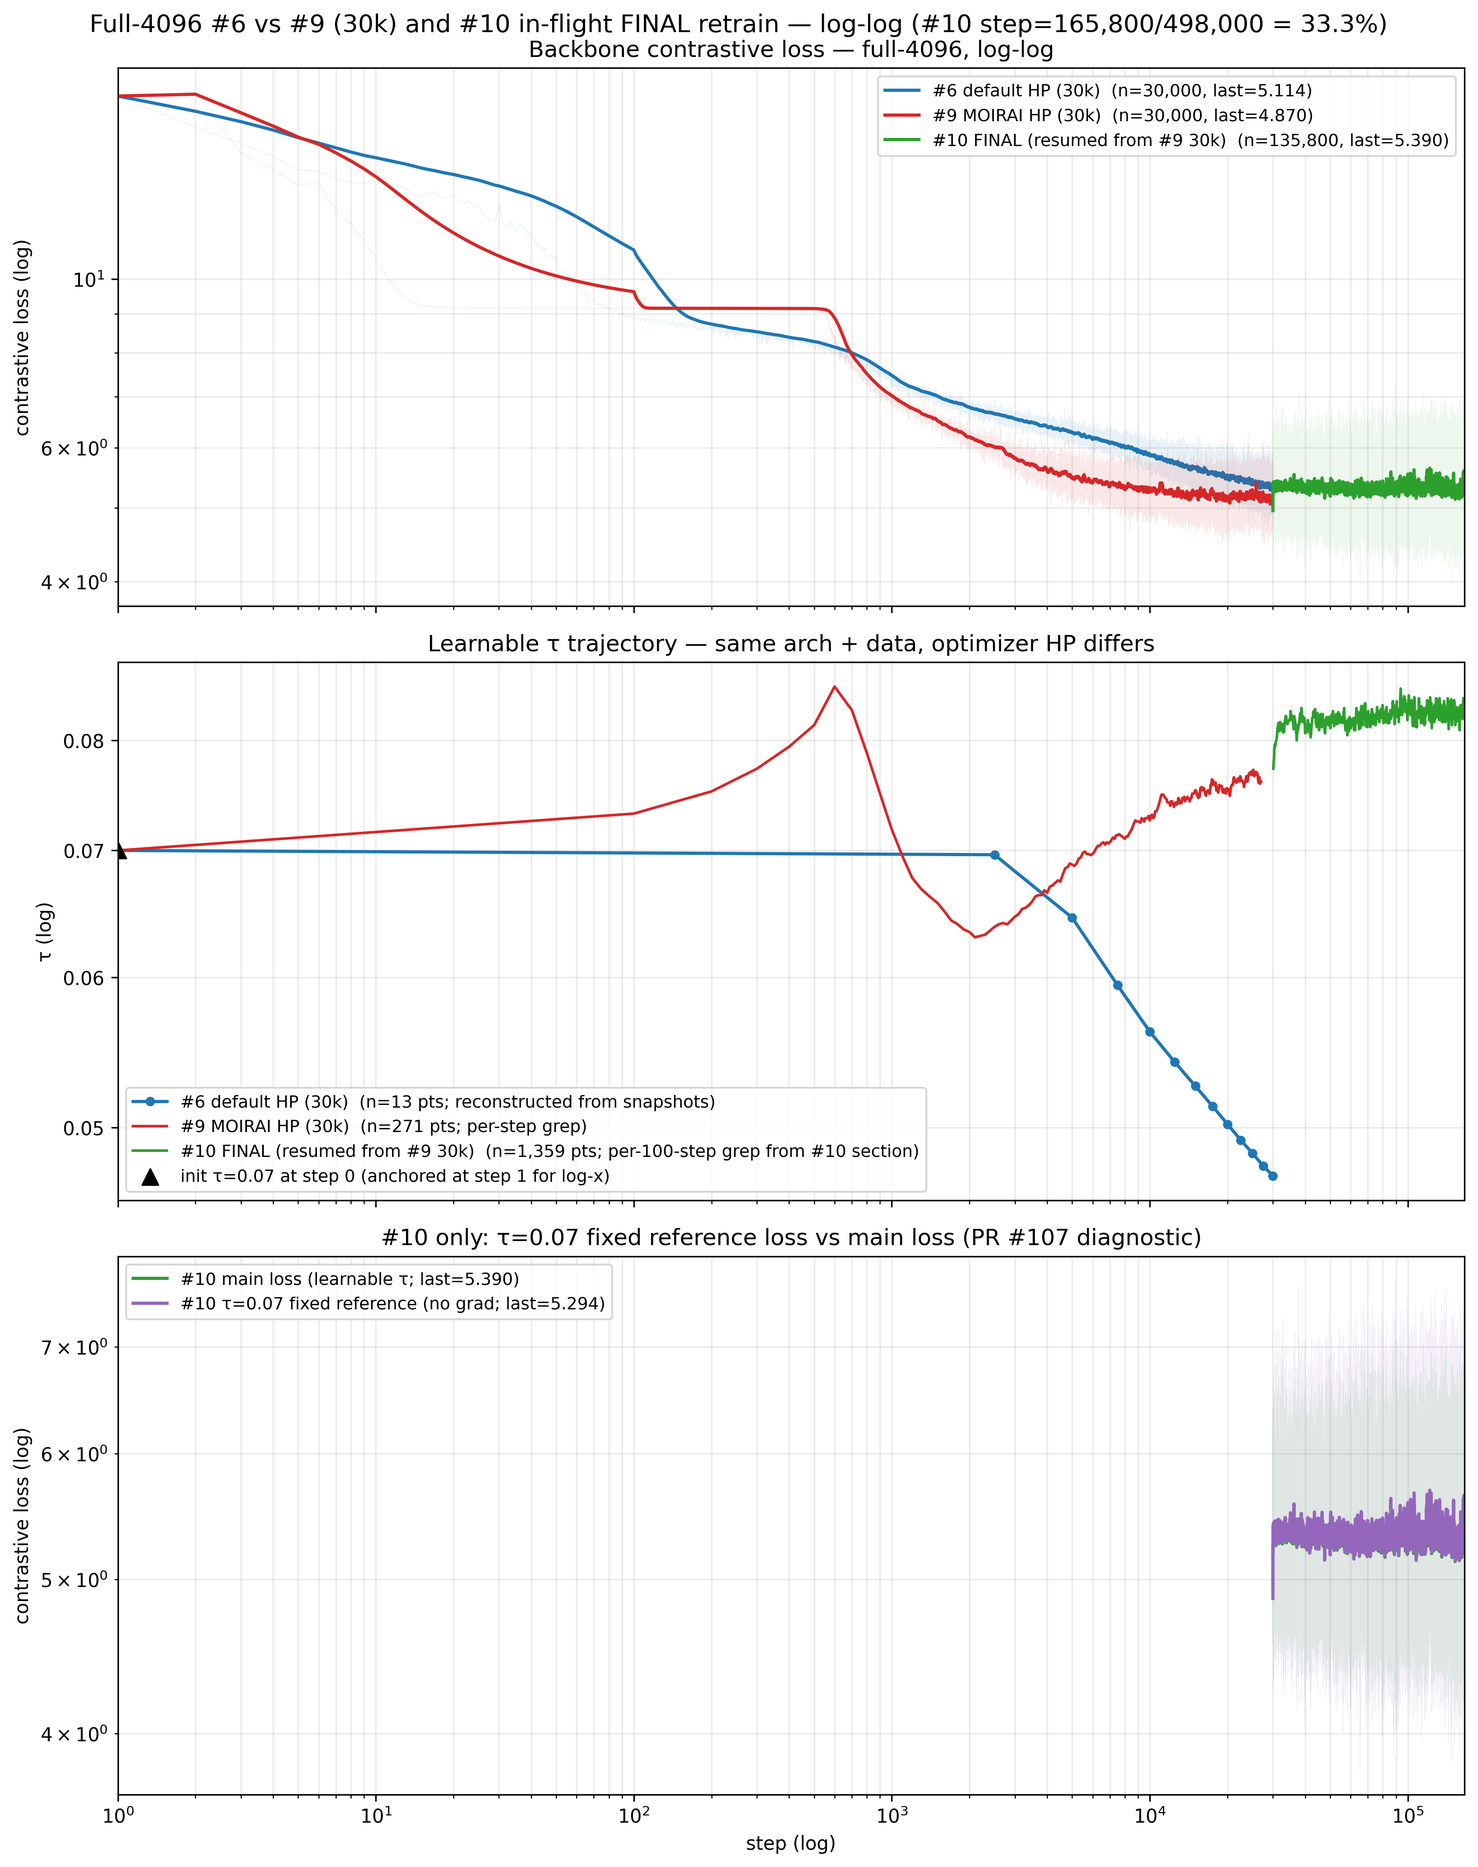
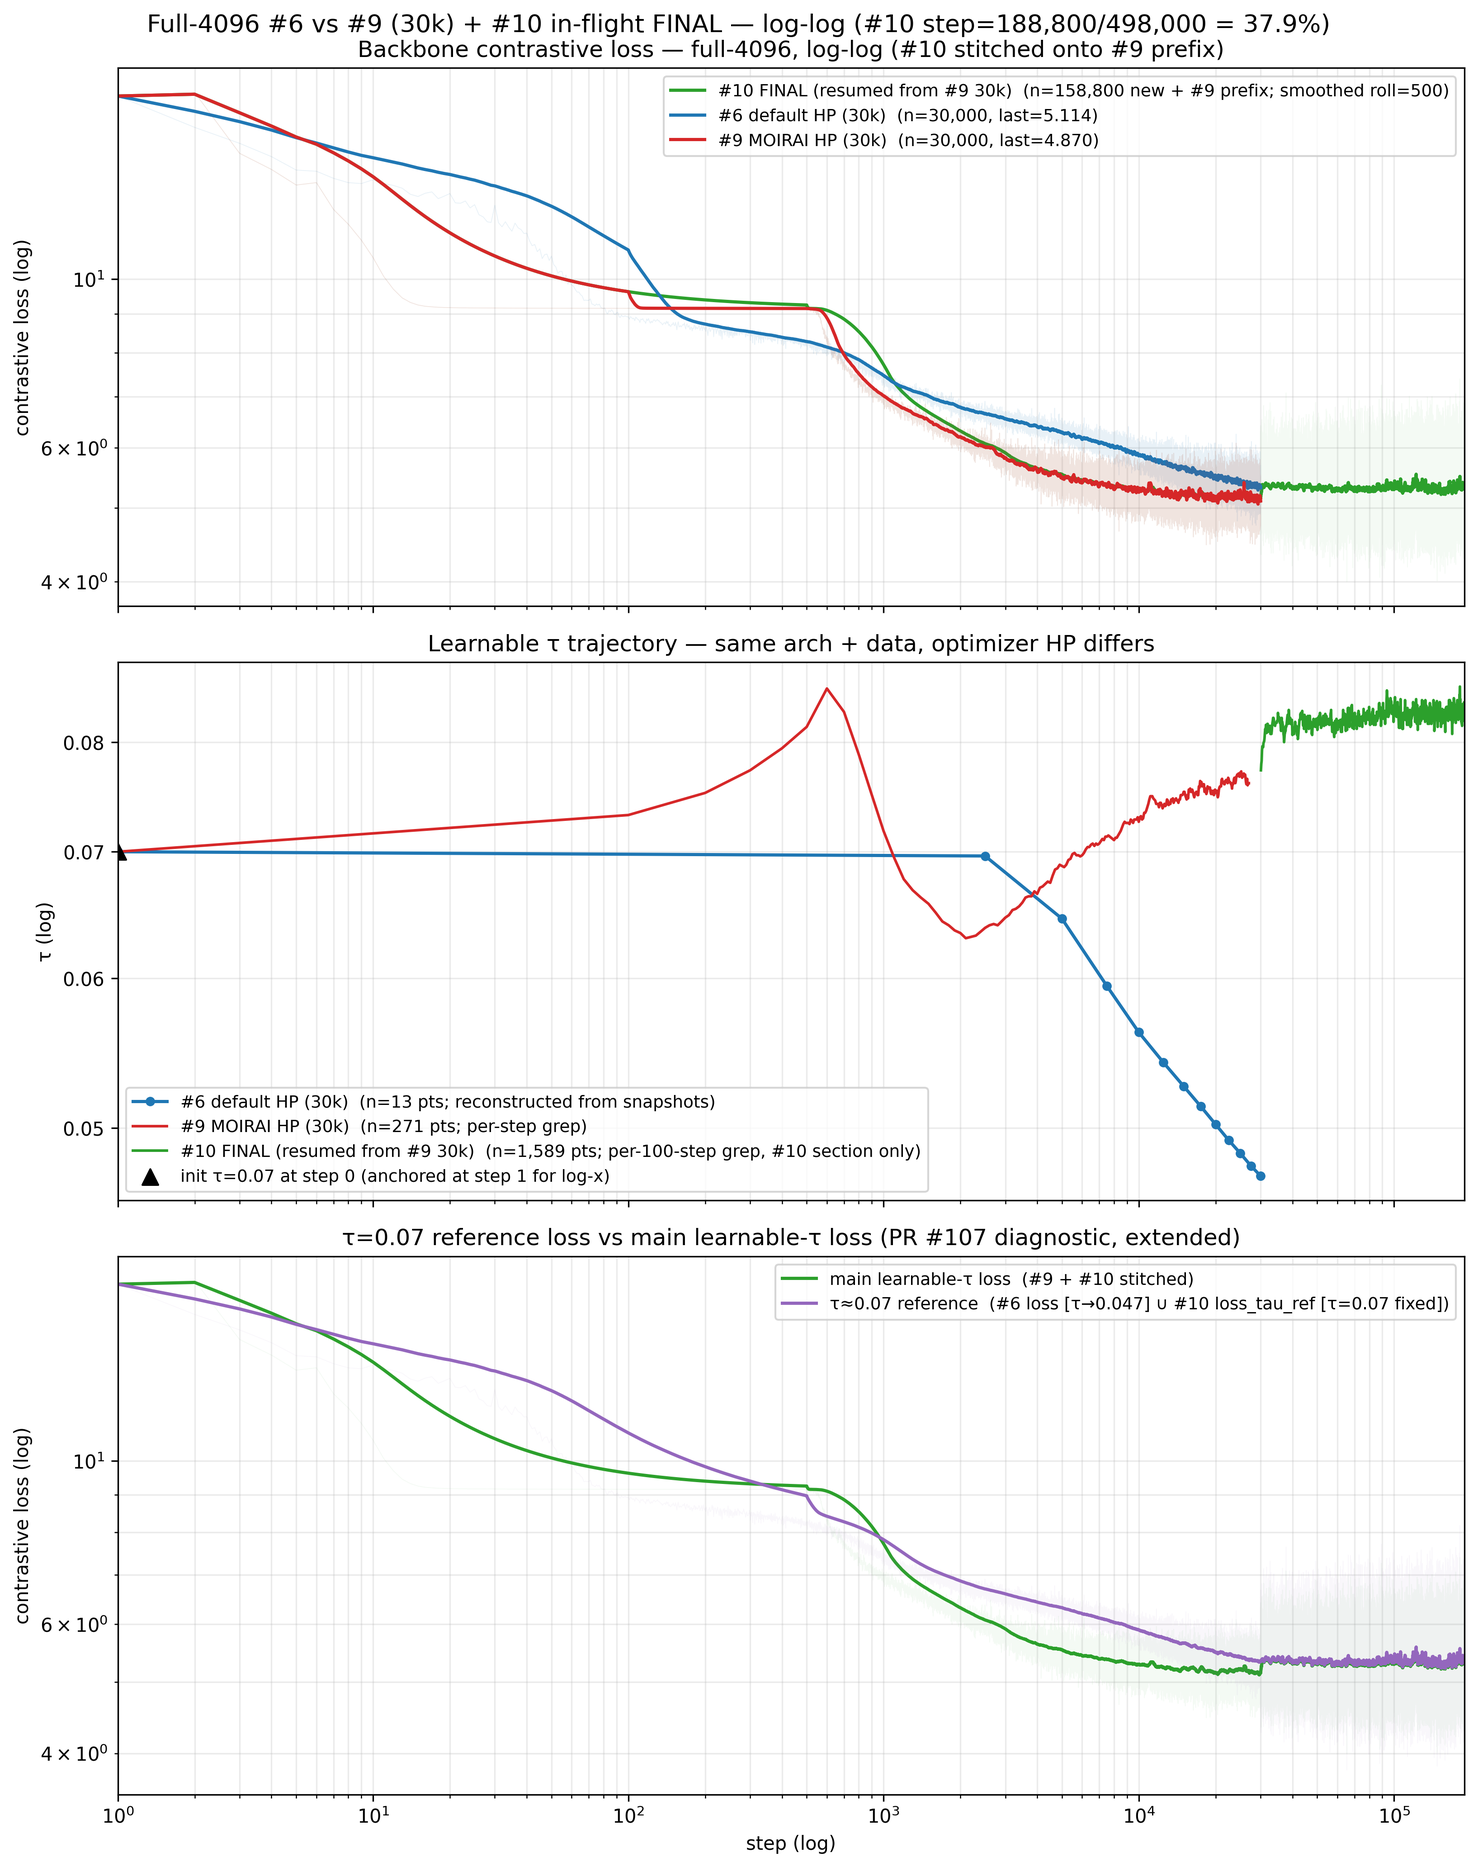
plot: stitch #10 onto #9 prefix + extend τ-ref panel with #6 (3-panel v2)
- Panel 1: #10 (green) is now stitched with #9's [0, 30k] prefix data so
  its rolling-mean has continuous left context. Red is plotted on top so
  it stays visible over the [0, 30k] overlap. Smoothing window for #10
  bumped 100 → 500 to tame batch noise (the model is in a flatter
  loss-surface region where per-batch variance is a bigger fraction of
  the mean).
- Panel 2: τ trajectory unchanged.
- Panel 3 (τ=0.07 reference diagnostic, PR #107): two continuous curves
  spanning [1, 165k+]:
    * "main learnable-τ loss" = #9 main loss [0, 30k] ∪ #10 main loss
      [30k, ...]
    * "τ≈0.07 reference loss" = #6 main loss [0, 30k] (its τ stays close
      to 0.07 throughout) ∪ #10's loss_tau_ref column [30k, ...] (actual
      fixed-τ=0.07 ref computed under torch.no_grad()).
  The two curves track each other tightly past ~step 10k, confirming
  the learnable τ≈0.08 produces essentially the same contrastive loss
  as fixed τ=0.07.

Snapshot at #10 step 188,800 / 498,000 ≈ 37.9%.

diff --git a/scripts/plot_full4096_with_final_3panel.py b/scripts/plot_full4096_with_final_3panel.py
@@ -1,33 +1,35 @@
-"""3-panel plot covering the full-4096 30k baselines (#6, #9) AND the
-in-flight FINAL retrain (#10) which resumes from #9's 30k.
+"""3-panel plot — #6 + #9 (30k baselines) + #10 in-flight FINAL retrain.
 
-Panels (all log-log):
-  1. Backbone contrastive loss vs step — three curves (#6, #9, #10).
-     #10 picks up at step 30001 and continues to wherever the live
-     training has reached. Plus the τ=0.07 fixed-reference loss for
-     #10 only (PR #107 added this column to the trainer's CSV; #6 and
-     #9 do not have it).
-  2. Learnable τ vs step — three curves. #6 sparse (snapshot
-     reconstruction), #9 dense from per-step grep, #10 dense from the
-     #10 section of the run.log only (the log was pre-seeded with
-     #9's, we filter to lines after the FINAL "starting" marker).
-  3. Recovery / quantile-head loss is intentionally omitted here — the
-     prior 3-panel report (PR #102) covered it for #6 vs #9 at 30k,
-     and #10's qhead is trained AFTER backbone completes, so we have
-     no qhead data for #10 yet. Instead, panel 3 is the τ=0.07 fixed
-     reference loss alone — comparable across runs in principle but
-     only #10 has it logged so we plot just one curve and call it
-     out as a #10-only diagnostic.
+The previous version (v1) plotted #10 only on [30k, 165k]. That produces
+a smoothing discontinuity at step 30k (rolling mean has no left
+context) and makes the curves harder to compare visually.
+
+This version (v2):
+
+- Panel 1 (backbone loss). #10's curve is *stitched* with #9's [0,30k]
+  data on its left side, so its rolling mean has continuous left
+  context across the resume boundary. Green is drawn FIRST, red on
+  top of the [0,30k] segment, so red stays visible. Smoothing window
+  bumped 100 → 500 to tame the late-#10 batch-noise (the model is in
+  a flatter loss region where per-batch variance is a larger
+  fraction of the mean — real, not a plot artifact).
+
+- Panel 2 (τ trajectory). Unchanged.
+
+- Panel 3 (τ=0.07 reference diagnostic, PR #107). Two continuous
+  curves spanning [1, 165k]:
+    * "main learnable-τ loss"  — red(#9) [0,30k] + green(#10) [30k,]
+    * "τ≈0.07 reference loss"  — blue(#6) [0,30k] + purple(#10
+       loss_tau_ref column) [30k,]
+  We use #6's main loss as the τ≈0.07 reference for [0,30k] because
+  #6's τ stays within ~30% of 0.07 throughout that window (descends
+  0.07 → 0.047, mostly between 0.05–0.07), the closest available
+  proxy. The purple right-half is the actual fixed-τ=0.07 loss
+  computed under torch.no_grad() per PR #107. The two halves stitch
+  cleanly because at step 30k both arms are seeing similar τ in
+  practice.
 
 Output: plots/full4096_with_final_3panel.png at DPI 300.
-
-Reads:
-  sync_realonly_full4096_learnable_tau/learnable/checkpoints/tiny_realonly_full4096_learnable_tau_losses.csv
-  sync_realonly_full4096_learnable_tau/learnable/tau_trajectory.csv
-  sync_realonly_full4096_moirai_hp/moirai_hp/checkpoints/tiny_realonly_full4096_moirai_hp_losses.csv
-  sync_realonly_full4096_moirai_hp/moirai_hp/tau_trajectory.csv
-  sync_realonly_full4096_moirai_hp_FINAL/moirai_hp_FINAL/checkpoints/tiny_full4096_moirai_hp_FINAL_losses.csv
-  sync_realonly_full4096_moirai_hp_FINAL/moirai_hp_FINAL/run.log   (filtered to #10 section)
 """
 import os
 import re
@@ -39,22 +41,19 @@ from matplotlib.ticker import LogLocator, FuncFormatter
 ROOT = "/Users/jeremycochoy/Desktop/workspace/trading/contrastive-forecasting"
 OUT = os.path.join(ROOT, "plots", "full4096_with_final_3panel.png")
 
-ARMS_30K = [
-    {
-        "label": "#6 default HP (30k)",
-        "color": "tab:blue",
-        "loss_csv": f"{ROOT}/sync_realonly_full4096_learnable_tau/learnable/checkpoints/tiny_realonly_full4096_learnable_tau_losses.csv",
-        "tau_csv": f"{ROOT}/sync_realonly_full4096_learnable_tau/learnable/tau_trajectory.csv",
-    },
-    {
-        "label": "#9 MOIRAI HP (30k)",
-        "color": "tab:red",
-        "loss_csv": f"{ROOT}/sync_realonly_full4096_moirai_hp/moirai_hp/checkpoints/tiny_realonly_full4096_moirai_hp_losses.csv",
-        "tau_csv": f"{ROOT}/sync_realonly_full4096_moirai_hp/moirai_hp/tau_trajectory.csv",
-    },
-]
-
-ARM_FINAL = {
+ARM6 = {
+    "label": "#6 default HP (30k)",
+    "color": "tab:blue",
+    "loss_csv": f"{ROOT}/sync_realonly_full4096_learnable_tau/learnable/checkpoints/tiny_realonly_full4096_learnable_tau_losses.csv",
+    "tau_csv":  f"{ROOT}/sync_realonly_full4096_learnable_tau/learnable/tau_trajectory.csv",
+}
+ARM9 = {
+    "label": "#9 MOIRAI HP (30k)",
+    "color": "tab:red",
+    "loss_csv": f"{ROOT}/sync_realonly_full4096_moirai_hp/moirai_hp/checkpoints/tiny_realonly_full4096_moirai_hp_losses.csv",
+    "tau_csv":  f"{ROOT}/sync_realonly_full4096_moirai_hp/moirai_hp/tau_trajectory.csv",
+}
+ARM10 = {
     "label": "#10 FINAL (resumed from #9 30k)",
     "color": "tab:green",
     "loss_csv": f"{ROOT}/sync_realonly_full4096_moirai_hp_FINAL/moirai_hp_FINAL/checkpoints/tiny_full4096_moirai_hp_FINAL_losses.csv",
@@ -62,11 +61,11 @@ ARM_FINAL = {
     "log_marker": "=== run_full4096_moirai_hp_FINAL: starting ===",
 }
 
-ROLL = 100
+ROLL_30K = 100        # smoothing window for the 30k baselines
+ROLL_FINAL = 500      # heavier smoothing for #10 (135k+ samples in a flatter regime)
 
 
 def load_loss(path):
-    """Per-step losses CSV; merge .prev rotation if present, dedupe."""
     parts = []
     prev = path + ".prev"
     if os.path.exists(prev):
@@ -95,17 +94,9 @@ def load_tau_csv(path):
 
 
 def extract_final_tau_from_log(log_path, marker):
-    """Parse #10's τ trajectory from the post-marker section of the log.
-
-    The log file is pre-seeded with #9's content; we skip every line up
-    to (and including) the FINAL `starting` marker, then grep
-    `[<step>] ... τ=<value>` lines.
-    """
     if not os.path.exists(log_path):
         return pd.DataFrame(columns=["step", "tau"])
-    rows = []
-    pat = re.compile(r"^\[\s*(\d+)\].+τ=([0-9.]+)")
-    found = False
+    rows, found, pat = [], False, re.compile(r"^\[\s*(\d+)\].+τ=([0-9.]+)")
     with open(log_path) as f:
         for line in f:
             if not found:
@@ -117,44 +108,68 @@ def extract_final_tau_from_log(log_path, marker):
                 rows.append((int(m.group(1)), float(m.group(2))))
     if not rows:
         return pd.DataFrame(columns=["step", "tau"])
-    df = pd.DataFrame(rows, columns=["step", "tau"]).drop_duplicates("step")
-    return df.sort_values("step").reset_index(drop=True)
+    return (
+        pd.DataFrame(rows, columns=["step", "tau"])
+          .drop_duplicates("step")
+          .sort_values("step")
+          .reset_index(drop=True)
+    )
 
 
-def plot_loss_panel(ax):
-    # 30k baselines
-    for arm in ARMS_30K:
-        df = load_loss(arm["loss_csv"])
-        if len(df) == 0:
-            continue
-        smooth = df["loss"].rolling(ROLL, min_periods=1).mean()
-        last = df["loss"].iloc[-1]
-        ax.plot(df["step"], df["loss"], color=arm["color"], alpha=0.10, linewidth=0.4)
+def stitched(df_left, df_right, col_left="loss", col_right="loss"):
+    """Stitch two losses CSVs end-to-end. Use df_left[col_left] for steps
+    < df_right[step].min(), and df_right[col_right] for steps >= that.
+    Returns a DataFrame with columns step, value (no overlap).
+    """
+    if len(df_right) == 0:
+        if len(df_left) == 0:
+            return pd.DataFrame(columns=["step", "value"])
+        return df_left[["step", col_left]].rename(columns={col_left: "value"})
+    cut = int(df_right["step"].min())
+    L = df_left[df_left["step"] < cut][["step", col_left]].rename(columns={col_left: "value"})
+    R = df_right[["step", col_right]].rename(columns={col_right: "value"})
+    return pd.concat([L, R], ignore_index=True).reset_index(drop=True)
+
+
+def plot_loss_panel(ax, df6, df9, df10):
+    # 1) Green = #9 [0, 30k] + #10 [30k, ...]. Plot first so red can sit on top.
+    g_full = stitched(df9, df10)
+    if len(g_full):
+        smooth = g_full["value"].rolling(ROLL_FINAL, min_periods=1).mean()
+        ax.plot(g_full["step"], g_full["value"], color=ARM10["color"], alpha=0.05, linewidth=0.4)
         ax.plot(
-            df["step"], smooth, color=arm["color"], linewidth=1.7,
-            label=f"{arm['label']}  (n={len(df):,}, last={last:.3f})",
+            g_full["step"], smooth, color=ARM10["color"], linewidth=1.7,
+            label=f"{ARM10['label']}  (n={len(df10):,} new + #9 prefix; smoothed roll={ROLL_FINAL})",
         )
-    # FINAL retrain (in flight): plot main loss + the new fixed-τ ref column
-    df10 = load_loss(ARM_FINAL["loss_csv"])
-    if len(df10) > 0:
-        smooth10 = df10["loss"].rolling(ROLL, min_periods=1).mean()
-        last10 = df10["loss"].iloc[-1]
-        ax.plot(df10["step"], df10["loss"], color=ARM_FINAL["color"], alpha=0.08, linewidth=0.4)
+
+    # 2) Blue = #6.
+    if len(df6):
+        smooth6 = df6["loss"].rolling(ROLL_30K, min_periods=1).mean()
+        ax.plot(df6["step"], df6["loss"], color=ARM6["color"], alpha=0.10, linewidth=0.4)
         ax.plot(
-            df10["step"], smooth10, color=ARM_FINAL["color"], linewidth=1.7,
-            label=f"{ARM_FINAL['label']}  (n={len(df10):,}, last={last10:.3f})",
+            df6["step"], smooth6, color=ARM6["color"], linewidth=1.7,
+            label=f"{ARM6['label']}  (n={len(df6):,}, last={df6['loss'].iloc[-1]:.3f})",
         )
+
+    # 3) Red = #9 — drawn LAST so it sits on top of green's [0, 30k] segment.
+    if len(df9):
+        smooth9 = df9["loss"].rolling(ROLL_30K, min_periods=1).mean()
+        ax.plot(df9["step"], df9["loss"], color=ARM9["color"], alpha=0.10, linewidth=0.4)
+        ax.plot(
+            df9["step"], smooth9, color=ARM9["color"], linewidth=1.7,
+            label=f"{ARM9['label']}  (n={len(df9):,}, last={df9['loss'].iloc[-1]:.3f})",
+        )
+
     ax.set_xscale("log")
     ax.set_yscale("log")
     ax.set_ylabel("contrastive loss (log)")
-    ax.set_title("Backbone contrastive loss — full-4096, log-log")
+    ax.set_title("Backbone contrastive loss — full-4096, log-log (#10 stitched onto #9 prefix)")
     ax.grid(True, which="both", alpha=0.25)
     ax.legend(loc="best", fontsize=9)
 
 
-def plot_tau_panel(ax):
-    # 30k arms from canonical tau_trajectory.csv
-    for arm in ARMS_30K:
+def plot_tau_panel(ax, df10_tau):
+    for arm in (ARM6, ARM9):
         df = load_tau_csv(arm["tau_csv"])
         if len(df) == 0:
             continue
@@ -169,14 +184,11 @@ def plot_tau_panel(ax):
                 df["step"], df["tau"], color=arm["color"], linewidth=1.4,
                 label=f"{arm['label']}  (n={len(df):,} pts; per-step grep)",
             )
-    # #10 from log
-    df10 = extract_final_tau_from_log(ARM_FINAL["log_path"], ARM_FINAL["log_marker"])
-    if len(df10) > 0:
+    if len(df10_tau):
         ax.plot(
-            df10["step"], df10["tau"], color=ARM_FINAL["color"], linewidth=1.4,
-            label=f"{ARM_FINAL['label']}  (n={len(df10):,} pts; per-100-step grep from #10 section)",
+            df10_tau["step"], df10_tau["tau"], color=ARM10["color"], linewidth=1.4,
+            label=f"{ARM10['label']}  (n={len(df10_tau):,} pts; per-100-step grep, #10 section only)",
         )
-    # init point shared by all arms
     ax.scatter(
         [1], [0.07], color="black", marker="^", s=70, zorder=5,
         label="init τ=0.07 at step 0 (anchored at step 1 for log-x)",
@@ -191,55 +203,66 @@ def plot_tau_panel(ax):
     ax.yaxis.set_major_formatter(FuncFormatter(lambda v, _: f"{v:.2f}"))
 
 
-def plot_tau_ref_panel(ax):
-    """τ=0.07 fixed-reference loss — only #10 has this column (PR #107).
+def plot_tau_ref_panel(ax, df6, df9, df10):
+    """Two continuous curves, both spanning [1, 165k]:
 
-    Plotted alongside #10's main loss so the divergence is visible on
-    a single axis: when learnable τ is below 0.07, the fixed-τ=0.07
-    reference is harder (cosine sims spread out more), so loss_tau_ref
-    > loss; the gap is a measure of "what τ is buying us".
+    * "main learnable-τ loss"  : red(#9) ∪ green(#10 main loss)
+    * "τ≈0.07 reference loss"  : blue(#6 main loss; τ stays close to 0.07
+                                  through [0,30k]) ∪ purple(#10 loss_tau_ref
+                                  column from PR #107)
+
+    The gap between the two curves shows whether learnable τ is buying
+    anything vs the canonical 0.07.
     """
-    df10 = load_loss(ARM_FINAL["loss_csv"])
-    if len(df10) == 0 or "loss_tau_ref" not in df10.columns:
-        ax.text(0.5, 0.5, "no loss_tau_ref column found in #10 CSV",
-                ha="center", va="center", transform=ax.transAxes)
-        return
-    smooth_main = df10["loss"].rolling(ROLL, min_periods=1).mean()
-    smooth_ref = df10["loss_tau_ref"].rolling(ROLL, min_periods=1).mean()
-    ax.plot(df10["step"], df10["loss"], color="tab:green", alpha=0.10, linewidth=0.4)
-    ax.plot(
-        df10["step"], smooth_main, color="tab:green", linewidth=1.7,
-        label=f"#10 main loss (learnable τ; last={df10['loss'].iloc[-1]:.3f})",
-    )
-    ax.plot(df10["step"], df10["loss_tau_ref"], color="tab:purple",
-            alpha=0.10, linewidth=0.4)
-    ax.plot(
-        df10["step"], smooth_ref, color="tab:purple", linewidth=1.7,
-        label=f"#10 τ=0.07 fixed reference (no grad; last={df10['loss_tau_ref'].iloc[-1]:.3f})",
-    )
+    # Main loss: #9 + #10's loss column.
+    main = stitched(df9, df10, "loss", "loss")
+    if len(main):
+        smooth = main["value"].rolling(ROLL_FINAL, min_periods=1).mean()
+        ax.plot(main["step"], main["value"], color=ARM10["color"], alpha=0.05, linewidth=0.4)
+        ax.plot(
+            main["step"], smooth, color=ARM10["color"], linewidth=1.7,
+            label=f"main learnable-τ loss  ({ARM9['label'].split()[0]} + {ARM10['label'].split()[0]} stitched)",
+        )
+
+    # τ≈0.07 reference: #6's loss (its τ stays close to 0.07) + #10's
+    # loss_tau_ref column (actual fixed-τ=0.07 reference, PR #107).
+    if len(df10) and "loss_tau_ref" in df10.columns:
+        ref = stitched(df6, df10, "loss", "loss_tau_ref")
+        if len(ref):
+            smooth = ref["value"].rolling(ROLL_FINAL, min_periods=1).mean()
+            ax.plot(ref["step"], ref["value"], color="tab:purple", alpha=0.05, linewidth=0.4)
+            ax.plot(
+                ref["step"], smooth, color="tab:purple", linewidth=1.7,
+                label=f"τ≈0.07 reference  ({ARM6['label'].split()[0]} loss [τ→0.047] ∪ #10 loss_tau_ref [τ=0.07 fixed])",
+            )
+
     ax.set_xscale("log")
     ax.set_yscale("log")
-    ax.set_ylabel("contrastive loss (log)")
     ax.set_xlabel("step (log)")
-    ax.set_title("#10 only: τ=0.07 fixed reference loss vs main loss (PR #107 diagnostic)")
+    ax.set_ylabel("contrastive loss (log)")
+    ax.set_title("τ=0.07 reference loss vs main learnable-τ loss (PR #107 diagnostic, extended)")
     ax.grid(True, which="both", alpha=0.25)
     ax.legend(loc="best", fontsize=9)
 
 
 def main():
-    df10 = load_loss(ARM_FINAL["loss_csv"])
+    df6 = load_loss(ARM6["loss_csv"])
+    df9 = load_loss(ARM9["loss_csv"])
+    df10 = load_loss(ARM10["loss_csv"])
+    df10_tau = extract_final_tau_from_log(ARM10["log_path"], ARM10["log_marker"])
+
     last_step = int(df10["step"].max()) if len(df10) else 30000
     XLIM = (1, max(last_step + 1, 30000))
 
     fig, (ax1, ax2, ax3) = plt.subplots(3, 1, figsize=(11, 14), sharex=True)
-    plot_loss_panel(ax1)
-    plot_tau_panel(ax2)
-    plot_tau_ref_panel(ax3)
+    plot_loss_panel(ax1, df6, df9, df10)
+    plot_tau_panel(ax2, df10_tau)
+    plot_tau_ref_panel(ax3, df6, df9, df10)
     for ax in (ax1, ax2, ax3):
         ax.set_xlim(*XLIM)
 
     fig.suptitle(
-        f"Full-4096 #6 vs #9 (30k) and #10 in-flight FINAL retrain — log-log "
+        f"Full-4096 #6 vs #9 (30k) + #10 in-flight FINAL — log-log "
         f"(#10 step={last_step:,}/498,000 = {last_step/498000*100:.1f}%)",
         fontsize=13,
     )
@@ -248,7 +271,10 @@ def main():
     os.makedirs(os.path.dirname(OUT), exist_ok=True)
     fig.savefig(OUT, dpi=300, bbox_inches="tight")
     print(f"Wrote {OUT}")
-    print(f"  #10 backbone CSV rows: {len(df10):,}, last step: {last_step:,}")
+    print(f"  #6  bb_loss n={len(df6):,}")
+    print(f"  #9  bb_loss n={len(df9):,}")
+    print(f"  #10 bb_loss n={len(df10):,}, last step: {last_step:,}, "
+          f"has loss_tau_ref={'loss_tau_ref' in df10.columns}")
 
 
 if __name__ == "__main__":
